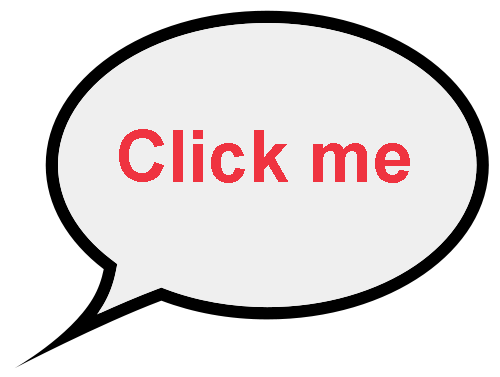
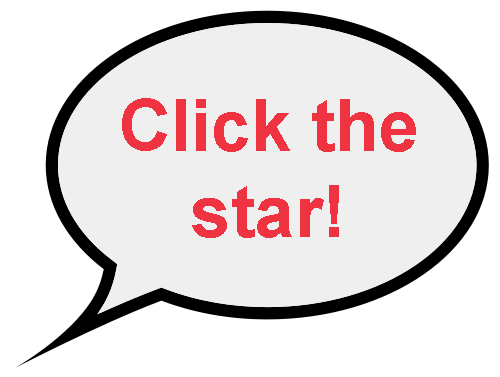
first load instructions almost done

Changed region(s): [[0.24, 0.2626, 0.84, 0.6419]]

diff --git a/styles/style.css b/styles/style.css
@@ -19,7 +19,7 @@ body {
     background-position: center;
 	position: absolute;
     filter: progid:DXImageTransform.Microsoft.AlphaImageLoader(src='bg-login.png',sizingMethod='scale');
-	font-family: Arial, sans-serif;
+	font-family: Calibri, Scene;
 }
 
 .sidenav {
@@ -88,9 +88,9 @@ a{
     right:0;
 	top:0;
     bottom:0;
-	z-index:100;
     display: none;
 	background-color:rgba(50,50,50,0.5);
+    z-index: 3;
 }
 
 .modal3-bg{
@@ -99,9 +99,9 @@ a{
     right:0;
 	top:0;
     bottom:0;
-	z-index:100;
     display: none;
 	background-color:rgba(50,50,50,0.5);
+    z-index: 3;
 }
 
 /* about us */
@@ -333,6 +333,7 @@ form *{
 /* Required Stylesheets */
 .wheel-button {
     position: relative;
+    
 }
 
 .wheel {
@@ -344,15 +345,19 @@ form *{
     visibility: hidden;
     position: relative;
     display: none;
+    z-index: 99;
+    
 }
 
 .wheel li {
     overflow: hidden;
     float:left;
+    z-index: 99;
 }
 
 .wheel li a {
     display: block;
+    z-index: 99;
 }
 
 #shareMenu {
@@ -389,11 +394,12 @@ form *{
     margin: auto;
     top: 80px;
     right:4%;
-
+    z-index: 99;
 }
 
 .wheel-button:hover{ 
     color: white;
+    z-index: 99;
 }
 
 .wheel-button span, .wheel span{
@@ -403,6 +409,7 @@ form *{
     -o-transition: all 1s ease;
     transition: all 1s ease;
     display: block;
+    z-index: 99;
 }
 
 .wheel-button.active span{
@@ -419,10 +426,12 @@ form *{
     width: 70px;
     height: 70px;
     color: white;
+    z-index:110;
     -moz-transition: all 0.25s ease;
     -webkit-transition: all 0.25s ease;
     -o-transition: all 0.25s ease;
     transition: all 0.25s ease;
+    
 }
 
 /* For black circle behind small star */
@@ -460,10 +469,24 @@ form *{
     width: 10%;
     position: absolute;
     margin: auto;   
-    top: 0px;
+    top: 13%;
     bottom: 0;
-    left: 200px;
+    left: 13%;
     right: 0;
+}
+
+.instruction2 {
+    width: 10%;
+    position: absolute;
+    margin: auto;   
+    top: 0;
+    bottom: 18%;
+    left: 13%;
+    right: 0;
+}
+
+.item{
+    z-index: 111;
 }
 
 /* Mobile css */

diff --git a/js/firework.js b/js/firework.js
@@ -36,19 +36,37 @@ function countDown(){
     }
 }
 
+function getCookie(c_name) {
+                if (document.cookie.length > 0) {
+                    c_start=document.cookie.indexOf(c_name + "=")
+
+                    if (c_start != -1) { 
+                        c_start = c_start + c_name.length + 1 
+                        c_end=document.cookie.indexOf(";", c_start)
+
+                        if (c_end == -1) c_end = document.cookie.length
+                            return unescape(document.cookie.substring(c_start, c_end))
+                    } 
+                }
+                return "";
+}
+
 function controlLight(star) {
     var xhttp = new XMLHttpRequest();
         xhttp.onreadystatechange = function() {
-            if (this.readyState == 4 && this.status == 200) {
+            if(!getCookie("user")) {
+                    document.getElementById("btnLogin").click();
+            } else if (this.readyState == 4 && this.status == 200) {
                 timeUntilPlay = this.responseText;
                 //alert("This is a placeholder for a really exciting count down animation. Your light show will //begin in " + timeUntilPlay.toString() + " seconds.");
                 count = timeUntilPlay;
                
-            }else{
-                //alert("aaa");
+            } else {
+                 
+                
                 $('.modal4-bg').fadeIn();
                 drawCanvas();
-                drawCanvas2();
+                    //drawCanvas2();
 
                 timer = setInterval("countDown()", 1000);
                 

diff --git a/jquery.wheelmenu.js b/jquery.wheelmenu.js
@@ -136,10 +136,10 @@
         'z-index': '5',
  // add safe zone for mouseover
     }).centerAround(button);
-    if(getCookie("user")){
+   
            
     el.addClass("wheel active").css("visibility", "visible").show();
-    }
+    
 	  
 	  if (el.attr('data-angle')) {
       settings.angle = el.attr('data-angle')
@@ -161,9 +161,9 @@
                 break; 
           
             case 'fly': 
-                if(getCookie("user")){
+                //if(getCookie("user")){
                     fields.flyIn(el, button, width, height, angle, step, radius, settings)
-                }
+                //}
 
             /*
                 if (getCookie("user")) {

diff --git a/index.php b/index.php
@@ -13,22 +13,9 @@ $cookie_insName = "instruction";
 $cookie_insValue = "instructionValue";
 
 
-setcookie($cookie_insName,$cookie_insValue,time() - 3600);
-/*
-if(!isset($_COOKIE[$cookie_name])) {
-    echo "The cookie is not set";
-}
-else{
-    echo "cookie set";
-}
+//setcookie($cookie_insName,$cookie_insValue,time() - 3600);
+//setcookie($cookie_name,$cookie_value,time());
 
-if(!isset($_COOKIE[$cookie_insName])) {
-    echo "The instruction cookie is not set";
-}
-else{
-    echo "cookie set";
-}
-*/
 ?>
 
 <!DOCTYPE html>
@@ -36,14 +23,6 @@ else{
     <head>
         <title>Lights of Hope</title>
         <meta name="viewport" content="width=device-width, initial-scale=1">
-
-        <!--
-        <meta property="og:url" content="http://104.236.138.127" />
-        <meta property="og:type" content="website" />
-        <meta property="og:title" content="Your Website Title" />
-        <meta property="og:description" content="Your description" />
-        <meta property="og:image" content="http://104.236.138.127/images/logo.png" />
-        -->
 
         <!-- Latest compiled and minified CSS -->
         <link rel="stylesheet" href="https://maxcdn.bootstrapcdn.com/bootstrap/3.3.7/css/bootstrap.min.css">
@@ -98,7 +77,7 @@ else{
             <a href="#" onclick="openShare()">Share<span class="caret"></span></a>
             
             <div id="shareMenu">
-                <a href="http://twitter.com/intent/tweet?text=I+just+controlled+St.+Paul’s+Foundation’s+Lights+of+Hope+display+with+my+phone,+click+here+and+you+can+too!+http://104.236.138.127+%23LOH2018">
+                <a href="http://twitter.com/intent/tweet?text=I+just+controlled+St.+Paul’s+Foundation’s+Lights+of+Hope+display+with+my+phone,+click+here+and+you+can+too!+http://104.236.138.127+%23LOH2018" target="_blank">
                     <img src="images/twitter.png" id="twitter" />
                 </a>
 
@@ -145,7 +124,7 @@ else{
         <div class="container">
 
             <a href="#wheel" class="wheel-button">
-                <span><img src="images/big_star.png" width="800%" onclick="bigStarClick()"/></span>
+                <span><img src="images/big_star.png" width="800%" onClick="bigStarClick()"/></span>
             </a>
 
             <ul id="wheel" data-angle="all">
@@ -181,43 +160,17 @@ else{
                 <img src="images/fb_small.png" class=" fb-btn" />
             </a></div>
 
-            <a href="http://twitter.com/intent/tweet?text=I+just+controlled+St.+Paul’s+Foundation’s+Lights+of+Hope+display+with+my+phone,+click+here+and+you+can+too!+http://104.236.138.127+%23LOH2018">
+            <a href="http://twitter.com/intent/tweet?text=I+just+controlled+St.+Paul’s+Foundation’s+Lights+of+Hope+display+with+my+phone,+click+here+and+you+can+too!+http://104.236.138.127+%23LOH2018" target="_blank">
                 <img src="images/twitter_sm.png" class=" twitter-btn " />
             </a>
         </div>
 
 
-        <!--
-        <div class="modal-bg"> 
-        -->
-            <!-- login instruction -->
-            <!--
-            <img src="images/login_instruc.png" class="login-instruc" />
-
-            <div class="loginModal">
-                <span>Register<a href="#close" id="close">×</a></span>
-                <form method="post" onsubmit="submitCheck()">
-                    
-                    <input id="username" name="name" type="textbox" class="input" placeholder="Name" required>
-
-                    <input id="password" name="email" type="email" class="input" placeholder="Email"   required>
-
-                    <div class="emailCheck">
-                    <input type="checkbox" checked="checked" name="checkBox" value="emailCheck" />
-                    Yes, I would like to receive emails from St. Paul's Foundation.</div>
-                --> 
-
-                    <!--
-                    <div class="g-recaptcha" data-sitekey="6LcaBykUAAAAAJPVSHmOPV6vGwBpszHhq5Z2_0j2"></div>
-                    -->
-        <!--
-                    <button name="submit" id="submit" type="submit" class="btnSubmit">Play!</button>
-                     
-
-                </form>
-            </div>
-        </div>
-        -->
+        
+        
+        
+        
+        
         
         <!-- Modal for Login -->
         <div id="myLoginModal" class="modal fade" role="dialog">
@@ -263,7 +216,7 @@ else{
                                     </div>
 
                                     <div class="col-xs-6">
-                                        <button name="submit" id="submit" type="submit" class="btn btnSubmit" disabled>Play!</button>
+                                        <button name="submit" id="submit" type="submit" class="btn btnSubmit" >Play!</button>
                                     </div>
                                 </div>
 
@@ -277,12 +230,13 @@ else{
         </div>
     
 
-        <div class="modal2-bg" onclick="closeBlank()">
+        <!-- First load instructions -->
+        <div class="modal2-bg">
             <img src="images/click_me_instruc.png" class="instruction" />
         </div>
 
-        <div class="modal3-bg" onclick="closeBlank2()">
-            <img src="images/instruction2.png" class="instruction" />
+        <div class="modal3-bg">
+            <img src="images/click_me_instruc.png" class="instruction2" />
         </div>
         
         
@@ -315,8 +269,8 @@ else{
 
                     </div>
                     <div class="modal-footer">
-                        <button type="button" class="btn btn-default pull-left" data-dismiss="modal">Close</button>
-                        <button id="aboutInfo" type="button" class="btn btn-default" onclick="aboutLink()">More Info</button>
+                        <button id="aboutInfo" type="button" class="btn btn-default pull-left" onclick="aboutLink()">More Info</button>
+                        <button type="button" class="btn btn-default pull-right" data-dismiss="modal">Close</button>
                     </div>
                 </div>
 
@@ -431,7 +385,7 @@ else{
                     console.log("no cookie");
                     $('.modal2-bg').fadeIn();
                     //$('.modal3-bg').fadeOut();
-                    setCookie("instruction", "instructionValue", 200);
+                    
                     //setcookie($cookie_insName, $cookie_insValue, time() + (86400 * 30 * 200), "/");
 
                 }
@@ -461,8 +415,13 @@ else{
             // Big star sound
             function bigStarClick() {
                 document.getElementById("bigStar").play();
-                if(!getCookie("user")){
-                     document.getElementById("btnLogin").click();
+                if(getCookie("instruction")){
+                    $('.modal3-bg').fadeOut();
+                }
+                else{
+                    $('.modal2-bg').fadeOut();
+                    $('.modal3-bg').fadeIn();
+                    setCookie("instruction", "instructionValue", 200);
                 }
             }
 
@@ -496,6 +455,7 @@ else{
             
 
         </script>
+        
         <script type="text/javascript" src="js/firework.js"></script>
     </body>
 
